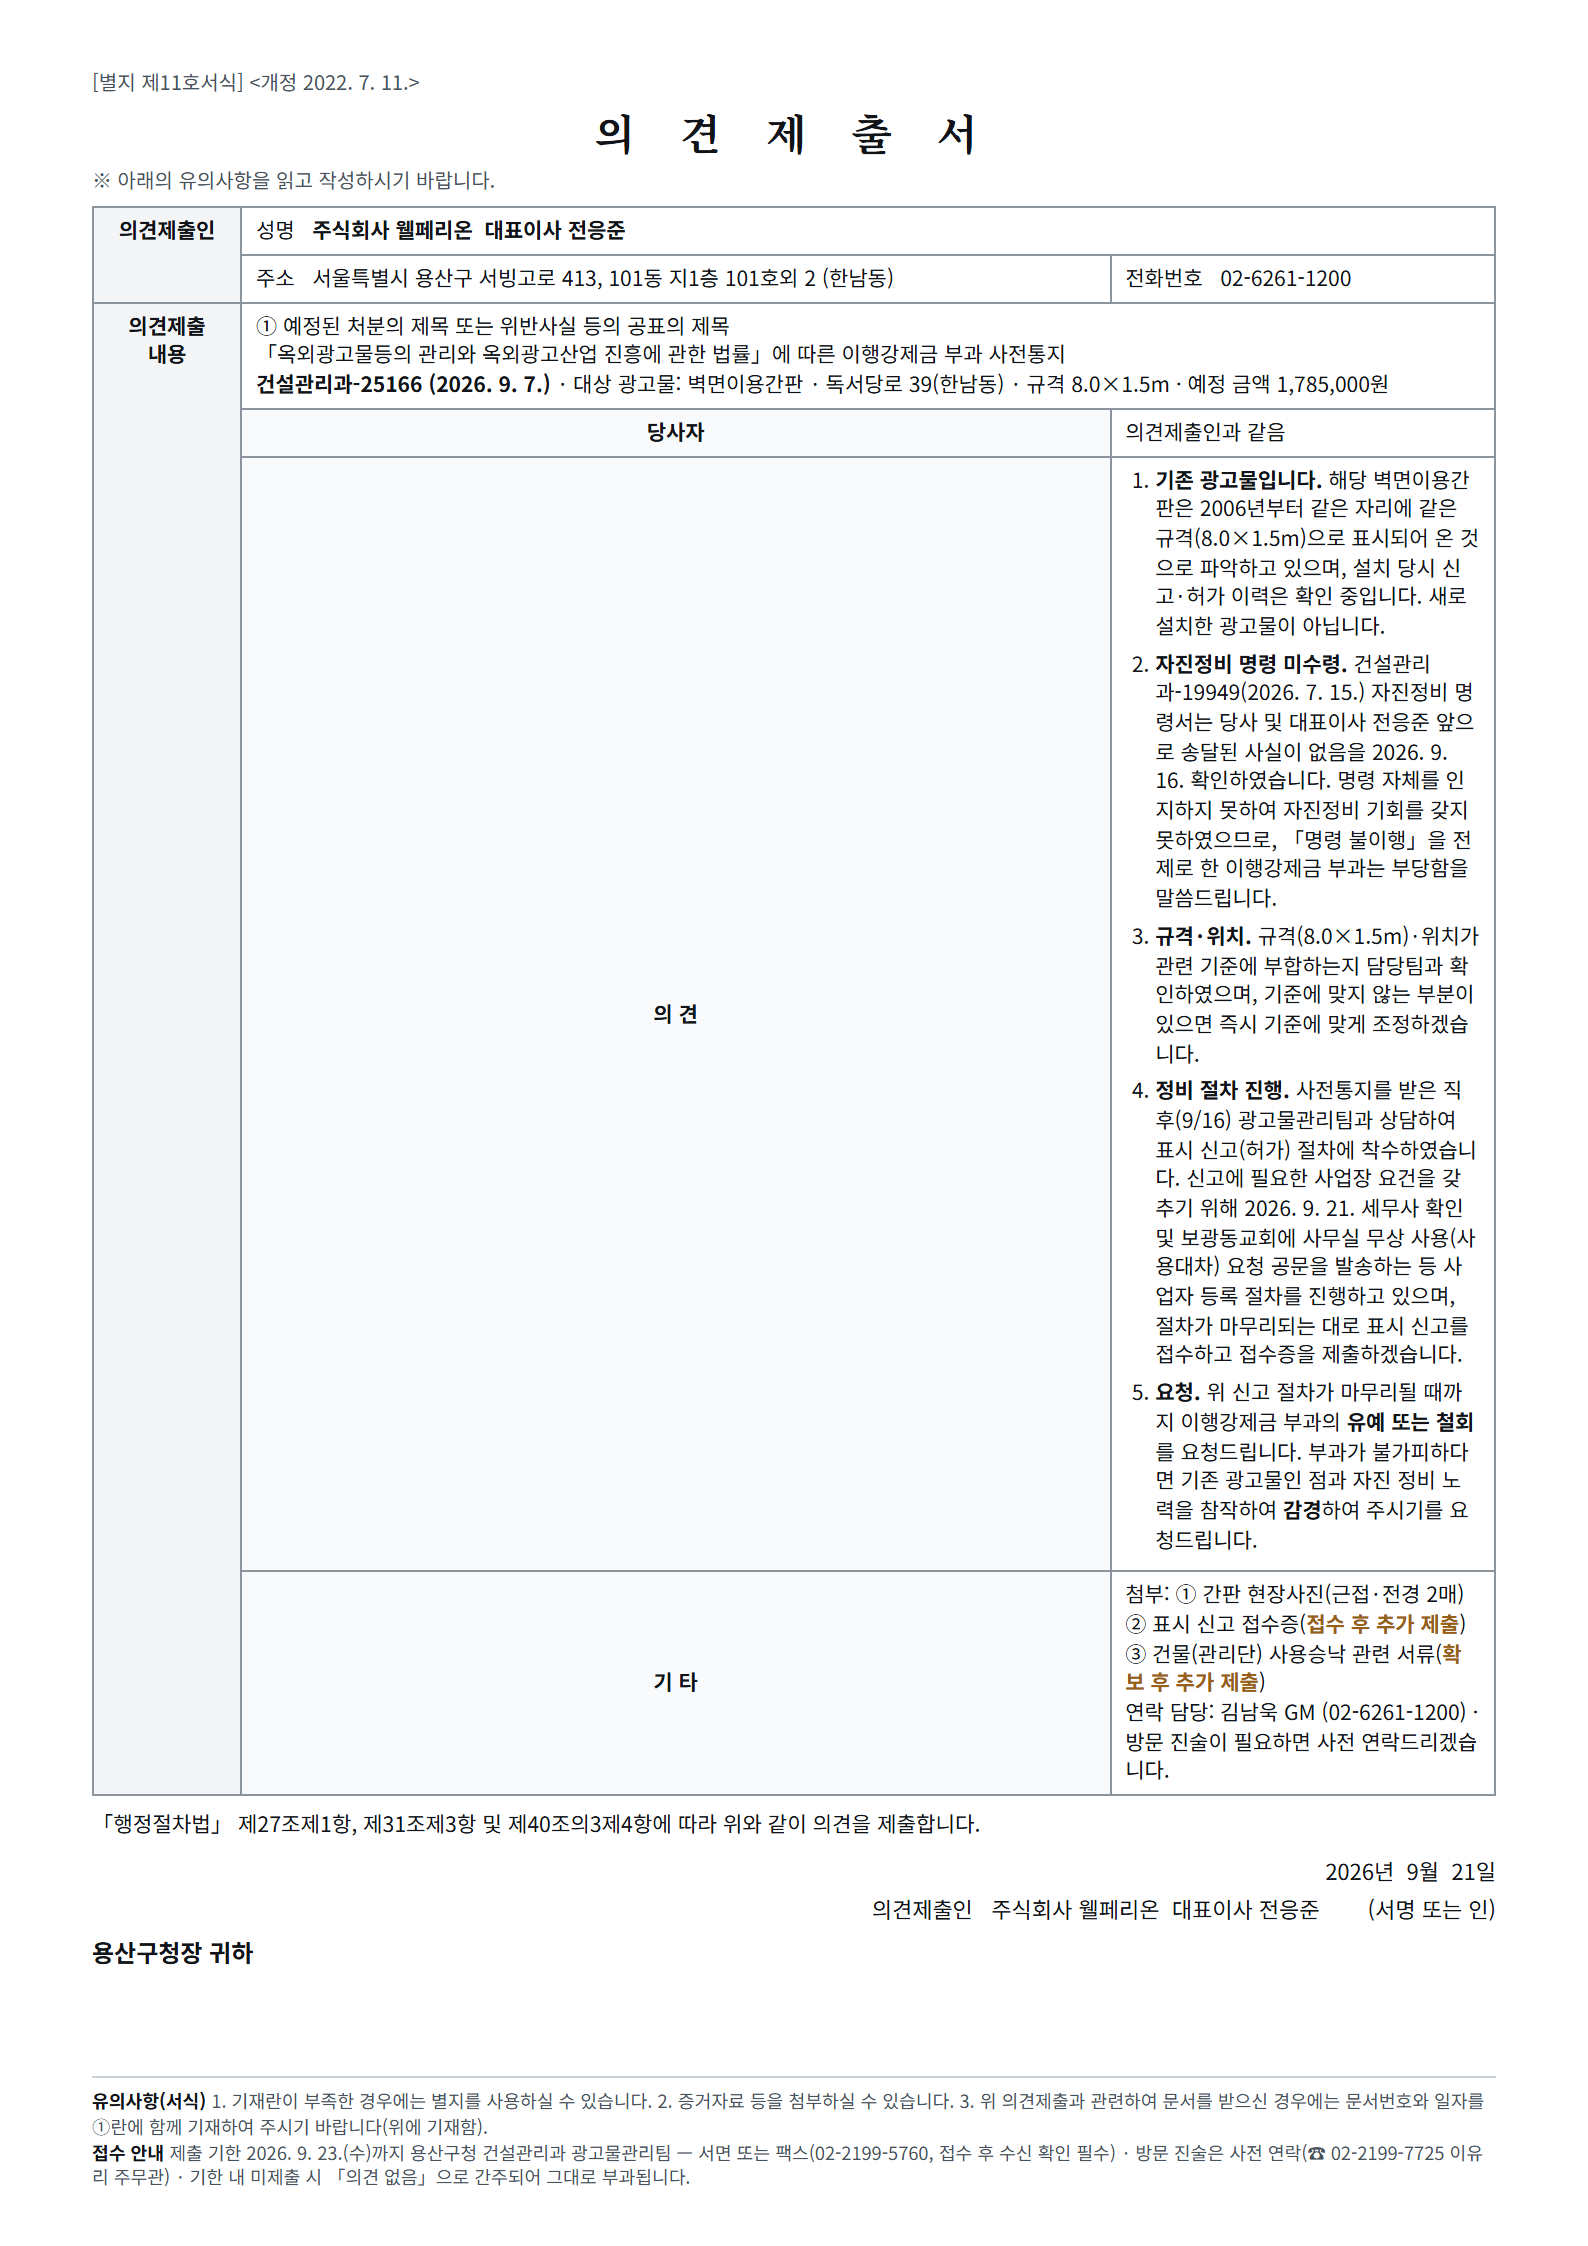
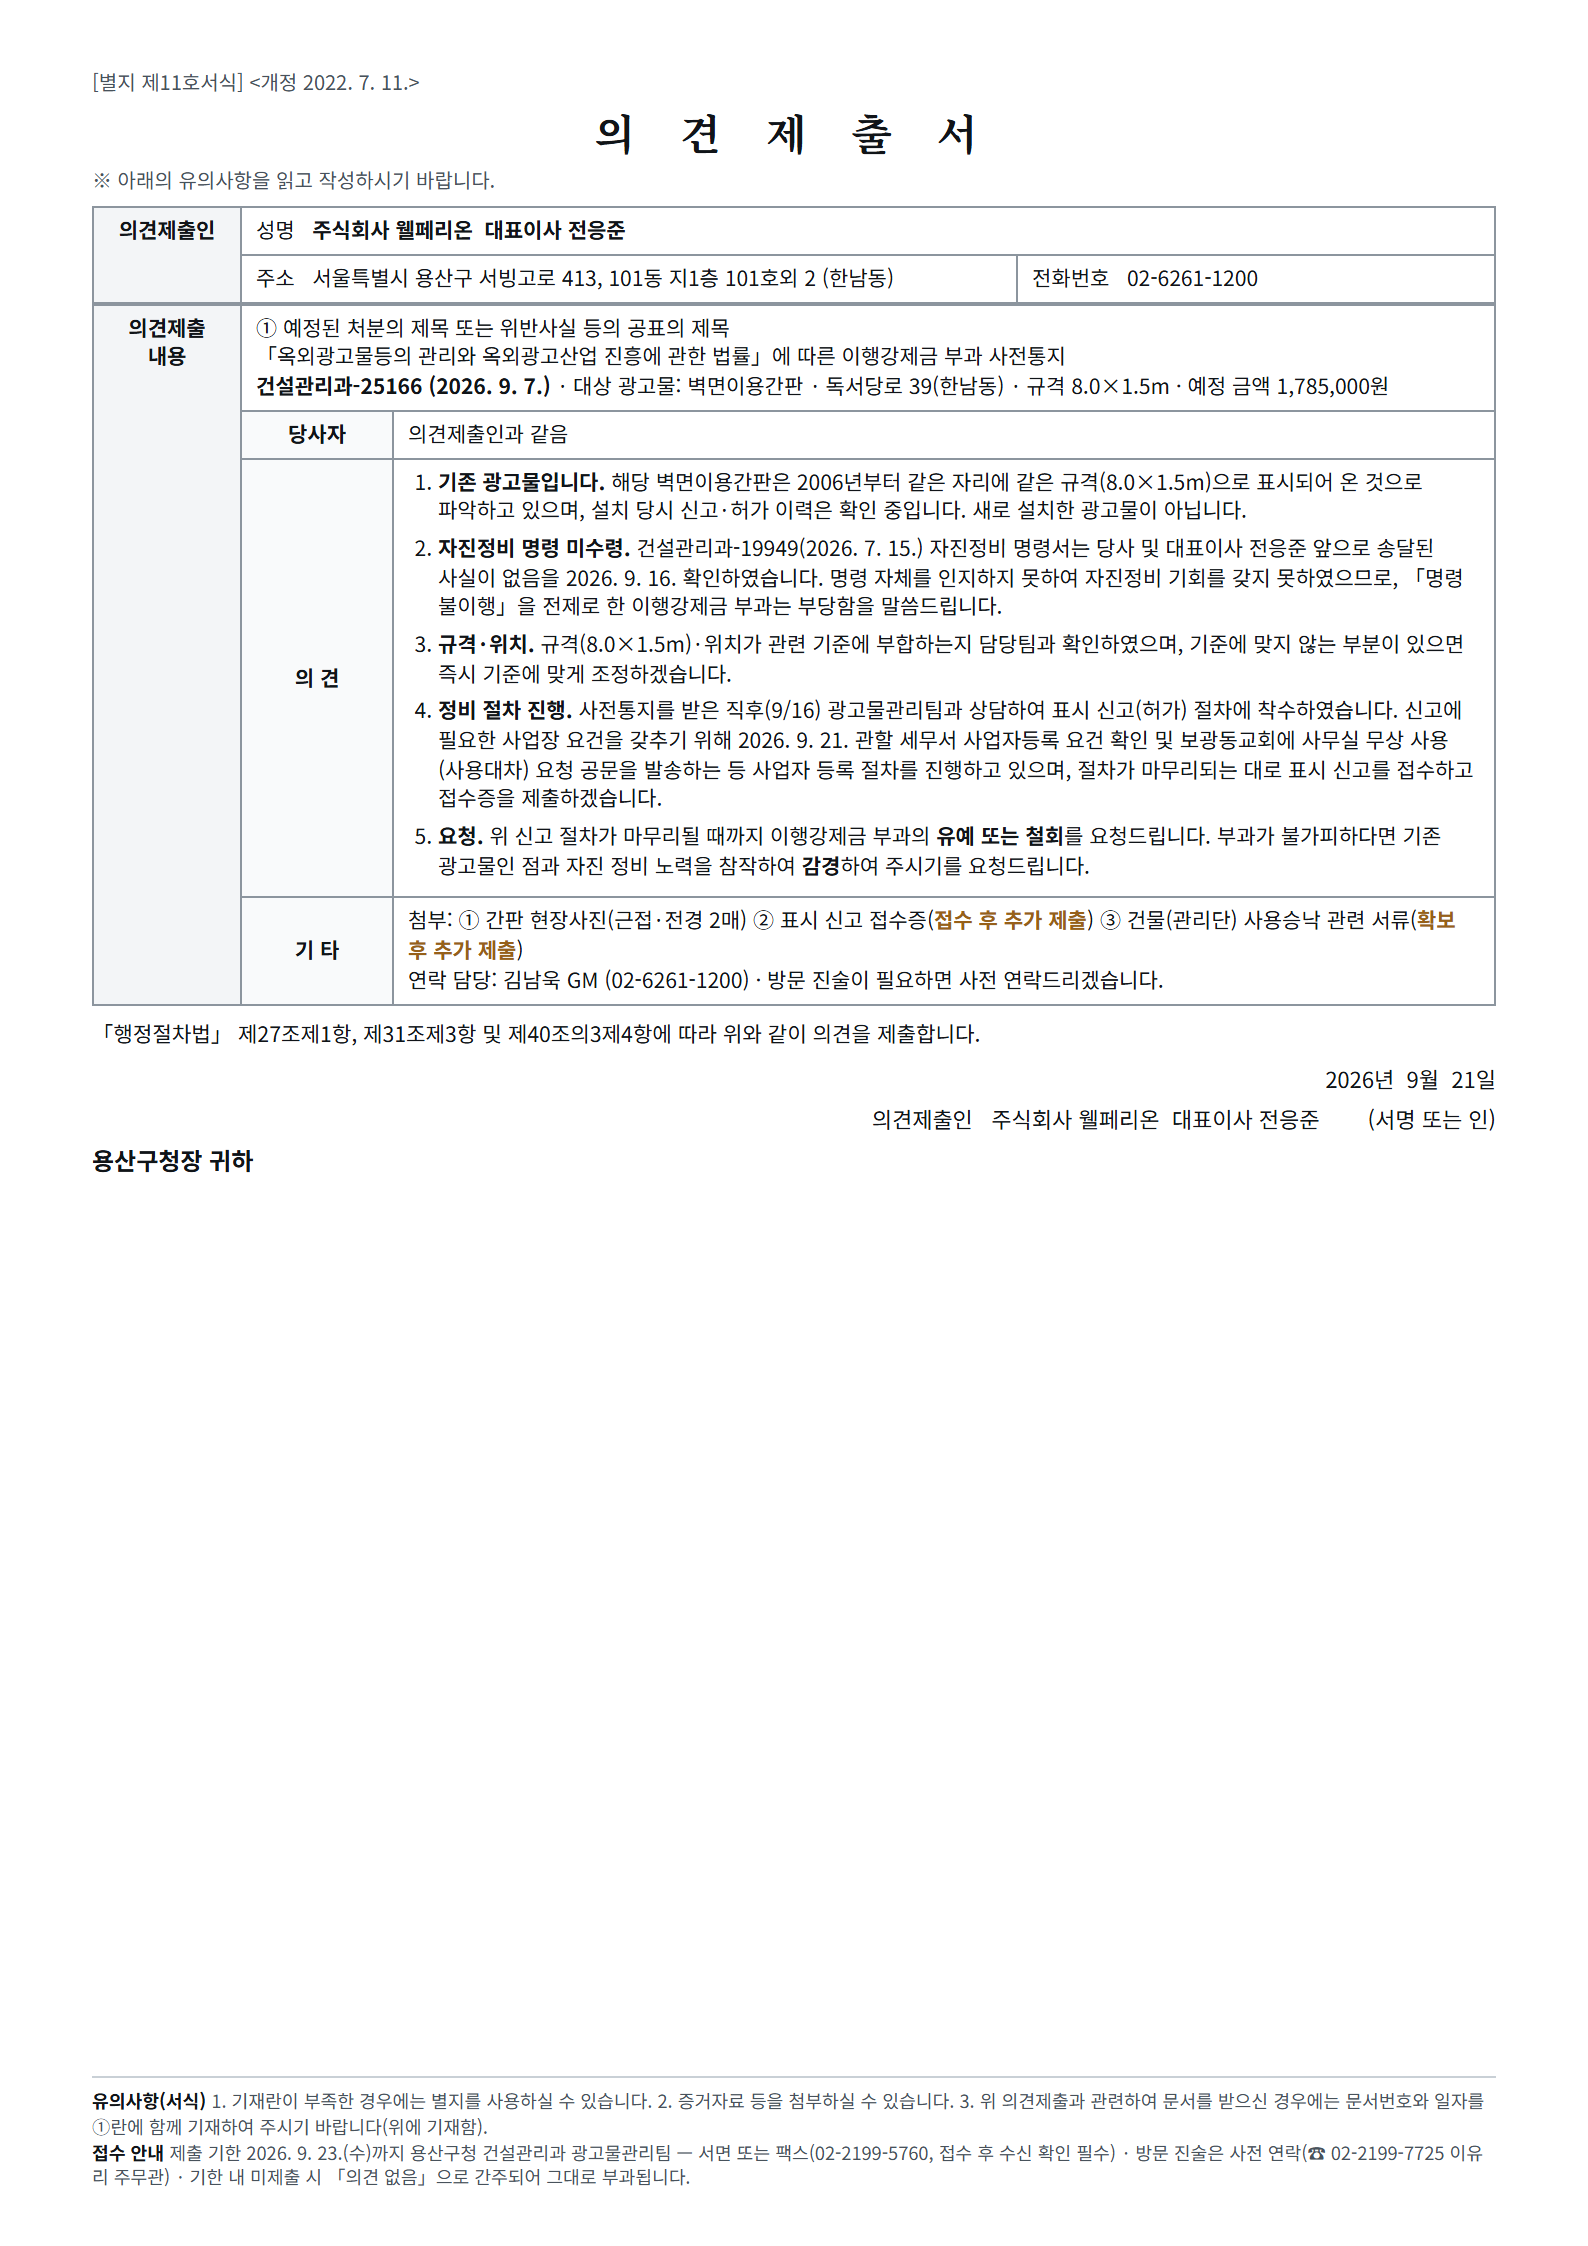
[웰리] fix(facility): 간판 의견제출서 — 표 칸 폭 고정(라벨 좁게·내용 넓게)·세무서 표현 정정 (GM 09-19)

diff --git a/3. 웰페리온 가이드/cto/facility/260921_용산구_간판_의견제출서_A4.html b/3. 웰페리온 가이드/cto/facility/260921_용산구_간판_의견제출서_A4.html
@@ -25,10 +25,10 @@
   .form{ font-size:10px; color:#48525B; }
   h1{ font-family:'Noto Serif KR',serif; font-size:21px; letter-spacing:8px; text-align:center; margin:4px 0 2px; }
   .note{ font-size:10px; color:#48525B; margin-bottom:6px; }
-  table{ border-collapse:collapse; width:100%; }
-  th,td{ border:1px solid var(--line); padding:4px 7px; vertical-align:top; font-size:10.5px; line-height:1.4; }
-  th{ background:#F3F5F7; font-weight:700; text-align:center; width:74px; }
-  td.sub{ width:66px; background:#F9FAFB; font-weight:700; text-align:center; vertical-align:middle; }
+  table{ border-collapse:collapse; width:100%; table-layout:fixed; }
+  th,td{ border:1px solid var(--line); padding:4px 7px; vertical-align:top; font-size:10.5px; line-height:1.4; overflow-wrap:break-word; word-break:keep-all; }
+  th{ background:#F3F5F7; font-weight:700; text-align:center; }
+  td.sub{ background:#F9FAFB; font-weight:700; text-align:center; vertical-align:middle; }
   .op p{ margin-bottom:4px; }
   .op ol{ margin-left:15px; } .op ol li{ margin-bottom:4px; }
   .op li b{ font-weight:700; }
@@ -47,8 +47,12 @@
   <h1>의 견 제 출 서</h1>
   <div class="note">※ 아래의 유의사항을 읽고 작성하시기 바랍니다.</div>
   <table>
+    <colgroup><col style="width:74px"><col style="width:388px"><col></colgroup>
     <tr><th rowspan="2">의견제출인</th><td colspan="2">성명 &nbsp; <b>주식회사 웰페리온 &nbsp;대표이사 전응준</b></td></tr>
-    <tr><td style="width:62%">주소 &nbsp; 서울특별시 용산구 서빙고로 413, 101동 지1층 101호외 2 (한남동)</td><td>전화번호 &nbsp; 02-6261-1200</td></tr>
+    <tr><td>주소 &nbsp; 서울특별시 용산구 서빙고로 413, 101동 지1층 101호외 2 (한남동)</td><td>전화번호 &nbsp; 02-6261-1200</td></tr>
+  </table>
+  <table style="border-top:0">
+    <colgroup><col style="width:74px"><col style="width:76px"><col></colgroup>
     <tr><th rowspan="4">의견제출<br>내용</th><td colspan="2">① 예정된 처분의 제목 또는 위반사실 등의 공표의 제목<br>「옥외광고물등의 관리와 옥외광고산업 진흥에 관한 법률」에 따른 이행강제금 부과 사전통지<br><b>건설관리과-25166 (2026. 9. 7.)</b> · 대상 광고물: 벽면이용간판 · 독서당로 39(한남동) · 규격 8.0×1.5m · 예정 금액 1,785,000원</td></tr>
     <tr><td class="sub">당사자</td><td>의견제출인과 같음</td></tr>
     <tr><td class="sub">의 견</td><td class="op">
@@ -56,7 +60,7 @@
         <li><b>기존 광고물입니다.</b> 해당 벽면이용간판은 2006년부터 같은 자리에 같은 규격(8.0×1.5m)으로 표시되어 온 것으로 파악하고 있으며, 설치 당시 신고·허가 이력은 확인 중입니다. 새로 설치한 광고물이 아닙니다.</li>
         <li><b>자진정비 명령 미수령.</b> 건설관리과-19949(2026. 7. 15.) 자진정비 명령서는 당사 및 대표이사 전응준 앞으로 송달된 사실이 없음을 2026. 9. 16. 확인하였습니다. 명령 자체를 인지하지 못하여 자진정비 기회를 갖지 못하였으므로, 「명령 불이행」을 전제로 한 이행강제금 부과는 부당함을 말씀드립니다.</li>
         <li><b>규격·위치.</b> 규격(8.0×1.5m)·위치가 관련 기준에 부합하는지 담당팀과 확인하였으며, 기준에 맞지 않는 부분이 있으면 즉시 기준에 맞게 조정하겠습니다.</li>
-        <li><b>정비 절차 진행.</b> 사전통지를 받은 직후(9/16) 광고물관리팀과 상담하여 표시 신고(허가) 절차에 착수하였습니다. 신고에 필요한 사업장 요건을 갖추기 위해 2026. 9. 21. 세무사 확인 및 보광동교회에 사무실 무상 사용(사용대차) 요청 공문을 발송하는 등 사업자 등록 절차를 진행하고 있으며, 절차가 마무리되는 대로 표시 신고를 접수하고 접수증을 제출하겠습니다.</li>
+        <li><b>정비 절차 진행.</b> 사전통지를 받은 직후(9/16) 광고물관리팀과 상담하여 표시 신고(허가) 절차에 착수하였습니다. 신고에 필요한 사업장 요건을 갖추기 위해 2026. 9. 21. 관할 세무서 사업자등록 요건 확인 및 보광동교회에 사무실 무상 사용(사용대차) 요청 공문을 발송하는 등 사업자 등록 절차를 진행하고 있으며, 절차가 마무리되는 대로 표시 신고를 접수하고 접수증을 제출하겠습니다.</li>
         <li><b>요청.</b> 위 신고 절차가 마무리될 때까지 이행강제금 부과의 <b>유예 또는 철회</b>를 요청드립니다. 부과가 불가피하다면 기존 광고물인 점과 자진 정비 노력을 참작하여 <b>감경</b>하여 주시기를 요청드립니다.</li>
       </ol>
     </td></tr>
